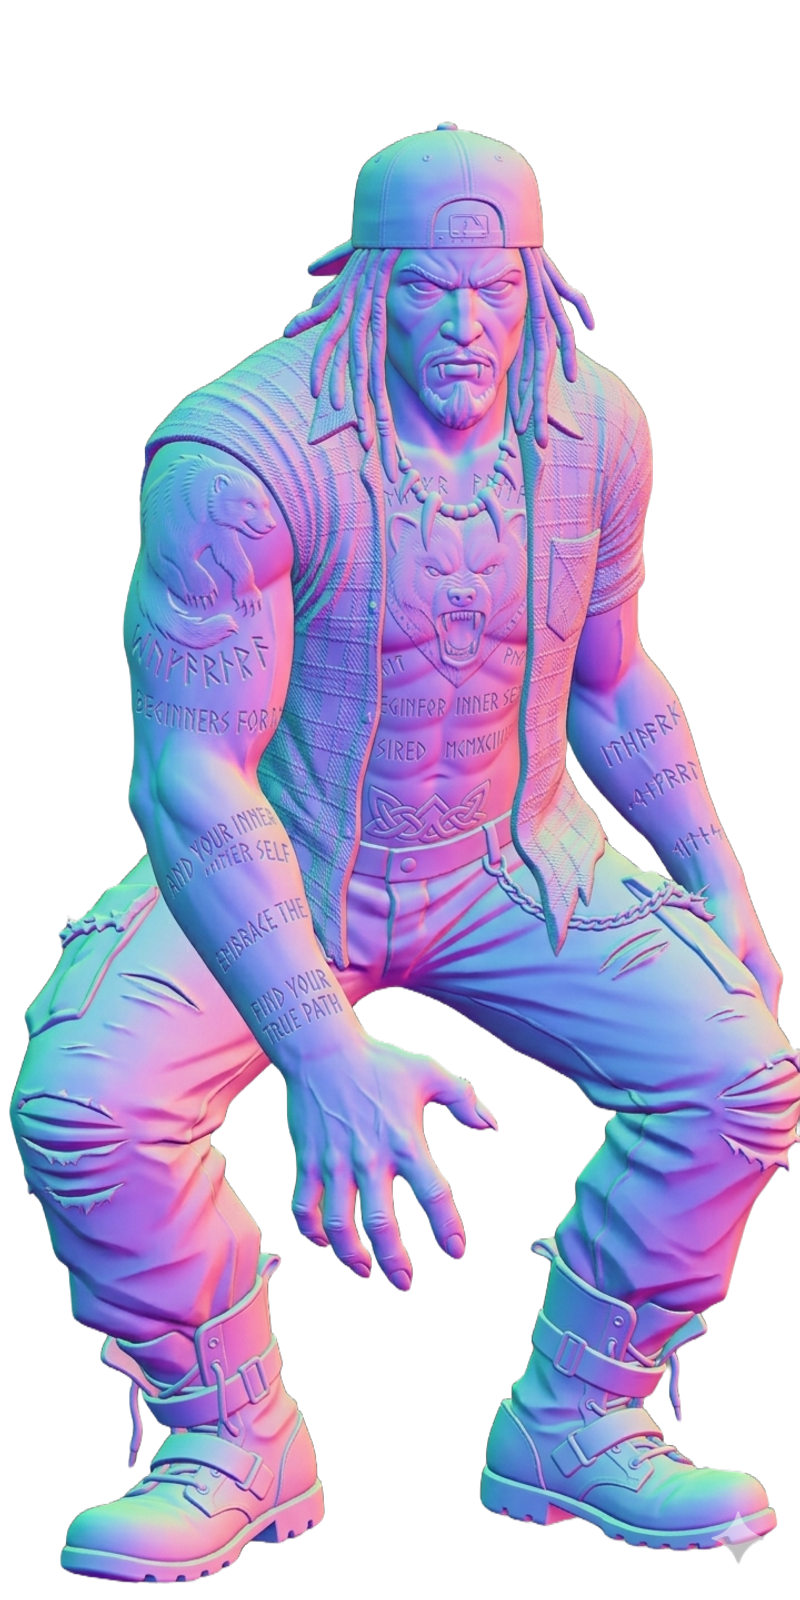
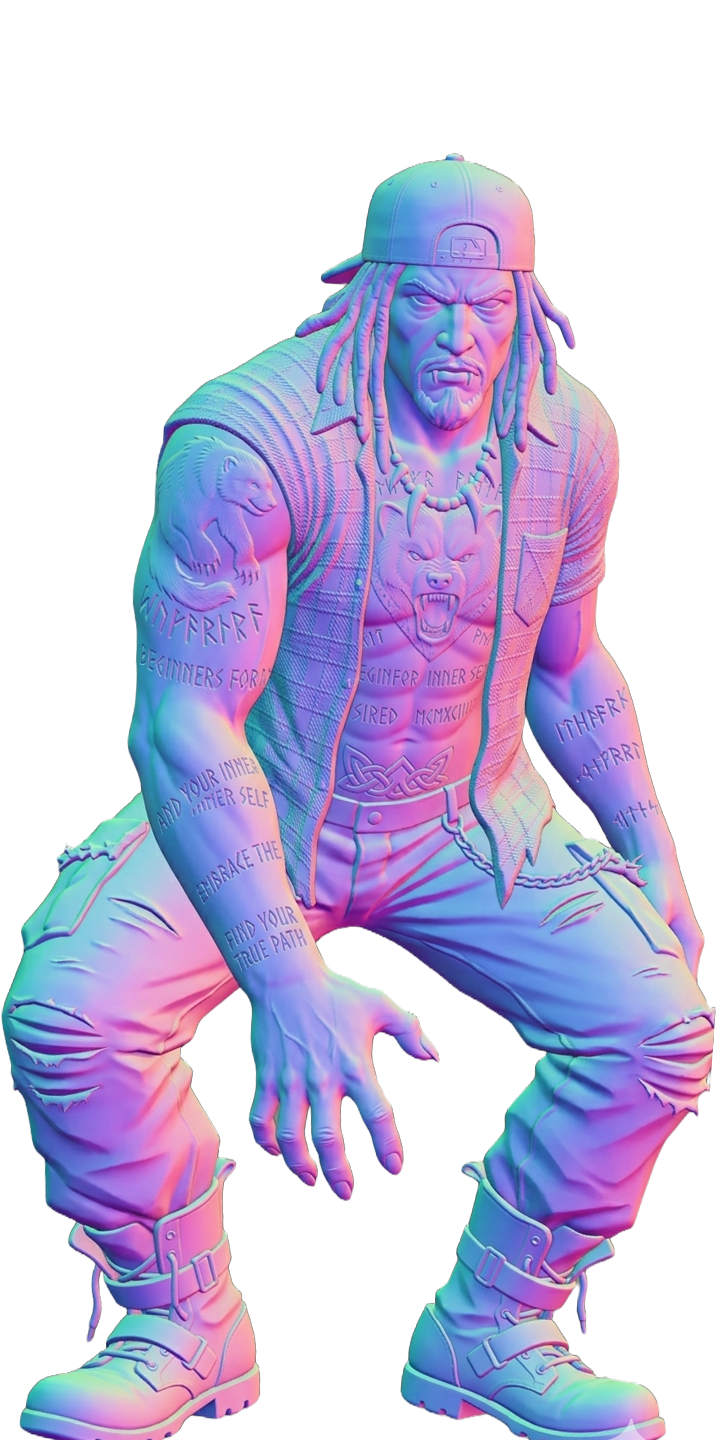
Update Gangrel diffuse and normal map from Discord art drop

diff --git a/docs/logs/ai-direction-log.md b/docs/logs/ai-direction-log.md
@@ -55,6 +55,11 @@
 **Produced:** Malkavian renders through the same Three.js pipeline as Nosferatu. Auto-detected by SilhouetteLoader. Two characters now proven in the pipeline.
 **Decision:** Checkpoint. Two clans rendering with normal map lighting, spotlight, and volumetric cone. Pipeline is repeatable — art drop-in requires zero code changes.
 
+## Entry 11 — 2026-03-29
+**Asked:** Updated Gangrel diffuse and normal map dropped via Discord. Replace existing art.
+**Produced:** New Gangrel_BC.png and Gangrel_N.png swapped into `src/silhouettes/art/`. Same pipeline — SilhouetteLoader auto-detects, zero code changes.
+**Decision:** Art swap only. Build, deploy, verify under Three.js lighting on live page.
+
 ---
 
 *New entries are added as work continues. Each entry follows the Asked/Produced/Decision format.*
